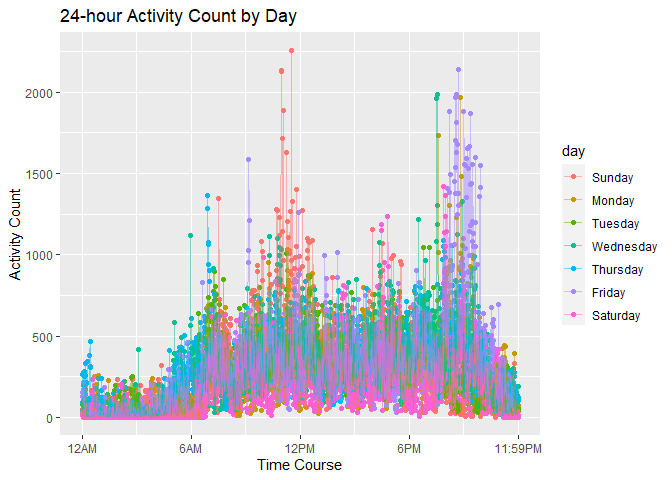
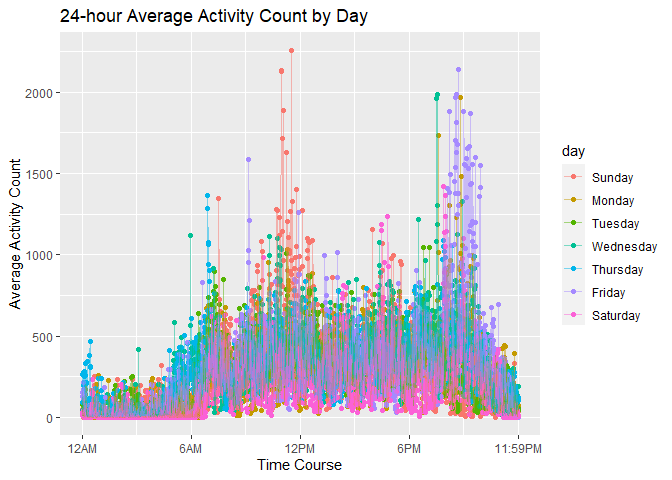
Problem 3 question 1 finished.

Changed region(s): [[0.1875, 0.0, 0.5625, 0.0625], [0.0, 0.3125, 0.0312, 0.6562]]

diff --git a/p8105_hw3_qz2266.md b/p8105_hw3_qz2266.md
@@ -12,7 +12,7 @@ knitr::opts_chunk$set(echo = TRUE)
 
 # Problem 2
 
-## Load, tidy, and wrangle the data.
+## Load, tidy, and otherwise wrangle the data. Your final dataset should include all originally observed variables and values; have useful variable names; include a weekday vs weekend variable; and encode data with reasonable variable classes. Describe the resulting dataset.
 
 ``` r
 accel = 
@@ -76,7 +76,7 @@ There are two activity variables :
     24-hour day starting at midnight, and the corresponding value is
     stored in act_count, which is a numeric variable.
 
-## The total activity over the day
+## Using your tidied dataset, aggregate across minutes to create a total activity variable for each day, and create a table showing these totals.
 
 ``` r
 library(dplyr, warn.conflicts = FALSE)
@@ -92,7 +92,7 @@ total_act =
     values_from = "total_activity")
 ```
 
-We couldn’t see a clear tendency over days. However, we could roughly
+We couldn’t see any apparent trends over days. However, we could roughly
 find that the total activity across 5 weeks is high on Wednesday,
 Thursday and Friday, and low in Saturday. The total activity seemed to
 peak on Friday but quickly drop to the bottom on Saturday.
@@ -126,9 +126,9 @@ accel_mean_plot %>%
   geom_point() +
   geom_line(alpha = 0.5) +
   labs(
-    title = "24-hour Activity Count by Day",
+    title = "24-hour Average Activity Count by Day",
     x = "Time Course",
-    y = "Activity Count"
+    y = "Average Activity Count"
   ) + 
   scale_x_continuous(
     breaks = c(0, 360, 720, 1080, 1440), 
@@ -138,31 +138,6 @@ accel_mean_plot %>%
 ```
 
 ![](p8105_hw3_qz2266_files/figure-gfm/accel_mean_plot-1.png)<!-- -->
-
-### If use Minute as the x-axis:
-
-``` r
-accel_mean_plot2 = 
-  accel %>%
-  separate(act_minute, into = c("activity", "act_min")) %>%
-  select(-activity) %>%
-  mutate(
-    act_min = as.numeric(act_min)) %>%
-  group_by(day, act_min) %>% 
-  dplyr::summarise(avg_count = mean(act_count))
-
-accel_mean_plot2 %>%
-  ggplot(aes(x = act_min, y = avg_count, color = day)) + 
-  geom_point() +
-  geom_line(alpha = 0.5) +
-  labs(
-    title = "24-hour Activity Count by Day",
-    x = "Minute",
-    y = "Activity Count"
-    )
-```
-
-![](p8105_hw3_qz2266_files/figure-gfm/accel_mean_plot2-1.png)<!-- -->
 
 # Another solution:
 
@@ -197,14 +172,12 @@ be because this time slot is the sleeping hour.
 
 # Problem 3
 
-## Load data
+## Write a description of the dataset, noting the size and structure of the data, describing some key variables, and indicating the extent to which missing data is an issue.
 
 ``` r
 library(p8105.datasets)
 data("ny_noaa")
 ```
-
-## Initial summary
 
 ``` r
 ny_noaa %>%
@@ -249,8 +222,6 @@ ny_noaa %>%
     ##  Max.   :9195.0                                        
     ##  NA's   :591786
 
-## Missing data
-
 ``` r
 # number of rows with missing data
 ny_noaa %>% drop_na() %>% nrow()
@@ -281,3 +252,50 @@ missing data for precipitation variable,
 14.689601 % for snowfall, 22.8033089 % for snow depth, 43.7102532 % for
 maximum temperature, and 43.7126422 % for minimum temperature.
 Therefore, the missing data is an issue, especially for tmax and tmin.
+
+## Do some data cleaning. Create separate variables for year, month, and day. Ensure observations for temperature, precipitation, and snowfall are given in reasonable units. For snowfall, what are the most commonly observed values?
+
+``` r
+ny_noaa =
+ny_noaa %>% 
+  mutate(
+  year = lubridate::year(date),
+  month = lubridate::month(date),
+  day = lubridate::day(date),
+  prcp = prcp/10,
+  tmin = as.numeric(tmin)/10,
+  tmax = as.numeric(tmax)/10
+  ) %>% 
+  relocate(id, year, month, day) %>% 
+  select(-date)
+```
+
+``` r
+ncol(ny_noaa)
+```
+
+    ## [1] 9
+
+``` r
+colnames(ny_noaa)
+```
+
+    ## [1] "id"    "year"  "month" "day"   "prcp"  "snow"  "snwd"  "tmax"  "tmin"
+
+``` r
+ny_noaa %>%
+  count(snow) %>%
+  arrange(desc(n)) %>%
+  top_n(3) 
+```
+
+    ## Selecting by n
+
+    ## # A tibble: 3 × 2
+    ##    snow       n
+    ##   <int>   <int>
+    ## 1     0 2008508
+    ## 2    NA  381221
+    ## 3    25   31022
+
+The most commonly observed values for snowfall are 0, NA and 25.
